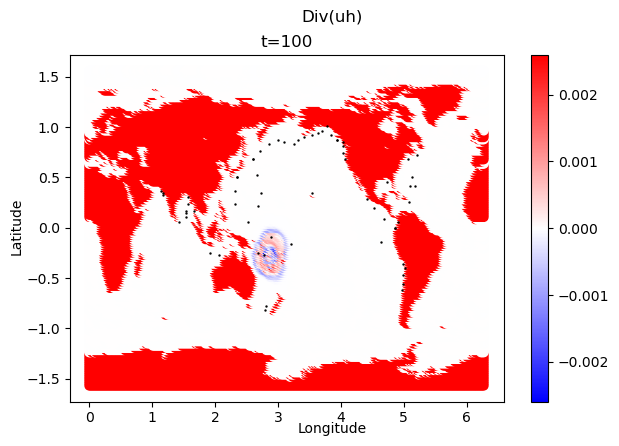
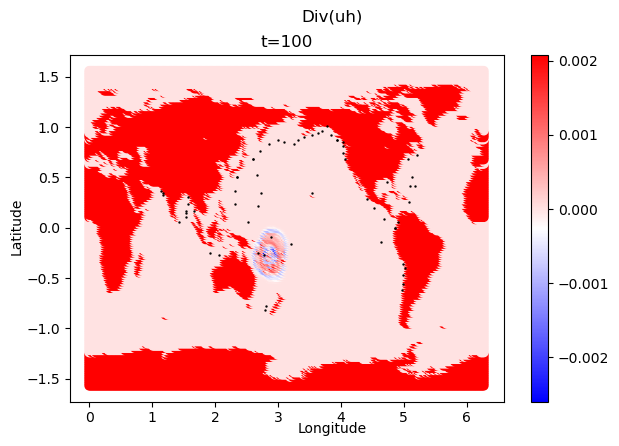
plotting stuff

diff --git a/misc/plot_fields_from_mat_v2.py b/misc/plot_fields_from_mat_v2.py
@@ -27,11 +27,17 @@ t = 450
 
 fig, ax = plt.subplots(nrows=1, ncols=1)
 if 'struct' in fname and 'unstruct' not in fname:
-    mask_val = np.max(np.abs(f[t, :, :, 0]))
+    #mask_val = np.max(np.abs(f[t, :, :, 0]))
+    minf = np.min(f[t, :, :, 0])
+    maxf = np.max(f[t, :, :, 0])
+    mask_val = min(np.abs(minf),np.abs(maxf))
     fplt = np.where((data['ismask'] == 0), f[t, :, :, 0], mask_val)
     field = ax.scatter(longitude, latitude, c=fplt, cmap='bwr',clim=[-mask_val,mask_val])
 else:
-    mask_val = np.max(np.abs(f[t,:, 0]))
+    #mask_val = np.max(np.abs(f[t,:, 0]))
+    minf = np.min(f[t,:,0])
+    maxf = np.max(f[t,:,0])
+    mask_val = min(np.abs(minf),np.abs(maxf))
     fplt = np.where((data['ismask'] == 0), f[t, :, 0], mask_val)
     field = ax.scatter(longitude, latitude, c=fplt, cmap='bwr', s=.2,clim=[-mask_val,mask_val])
 ax.scatter(sensor_lons, sensor_lats,color='k',s=.5)
